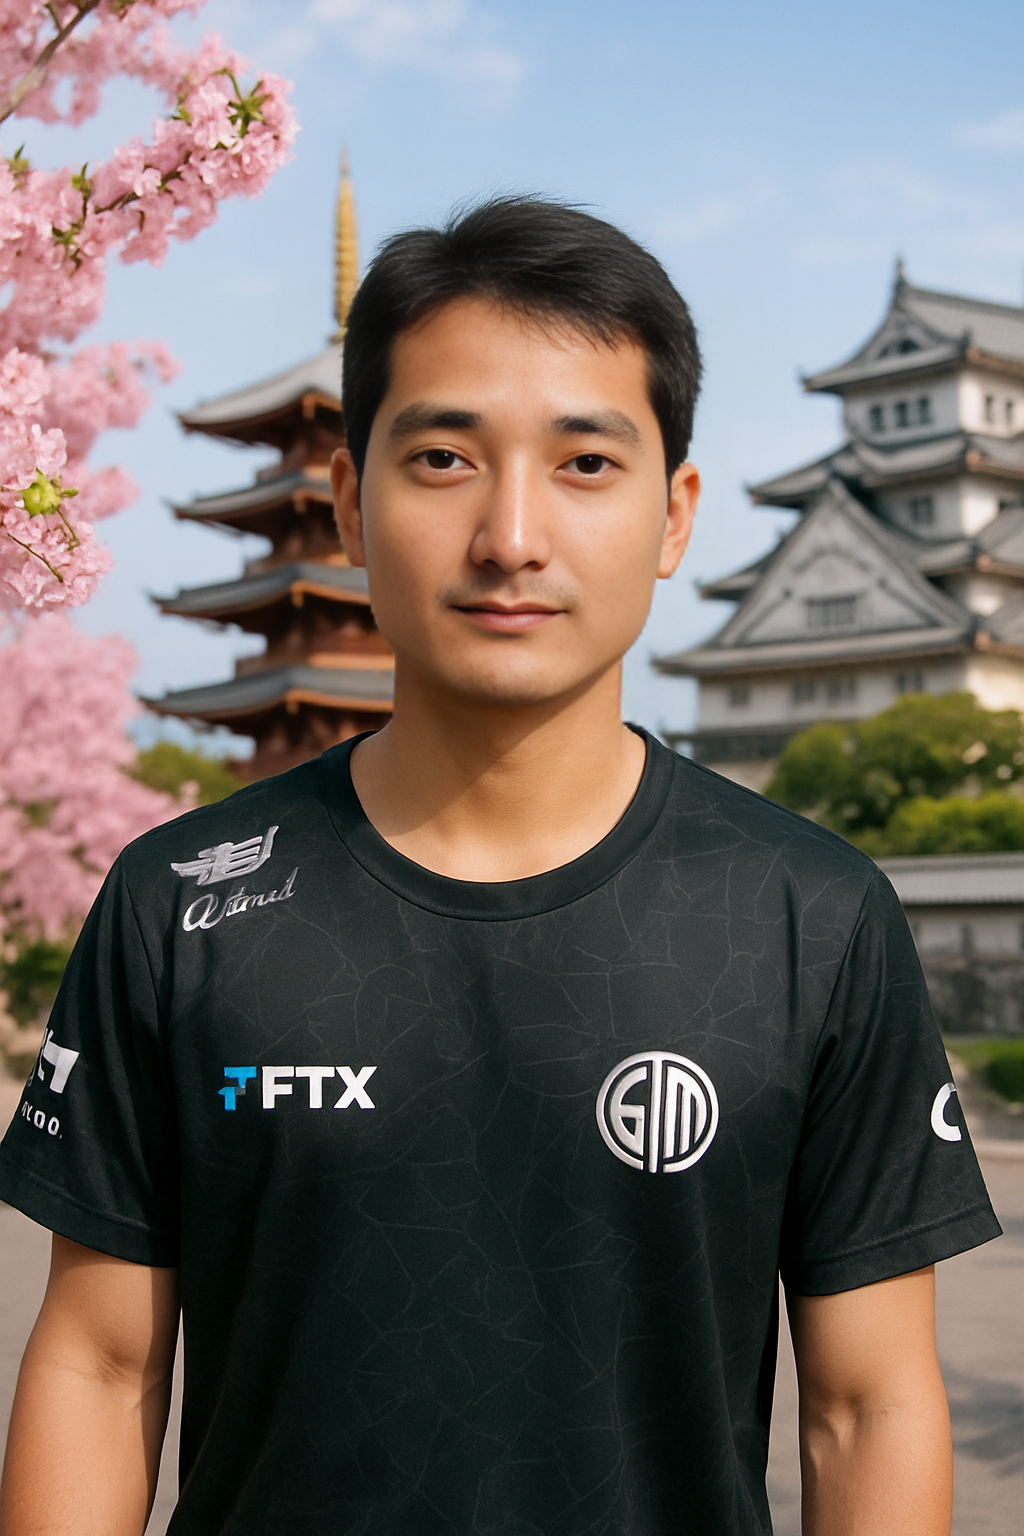
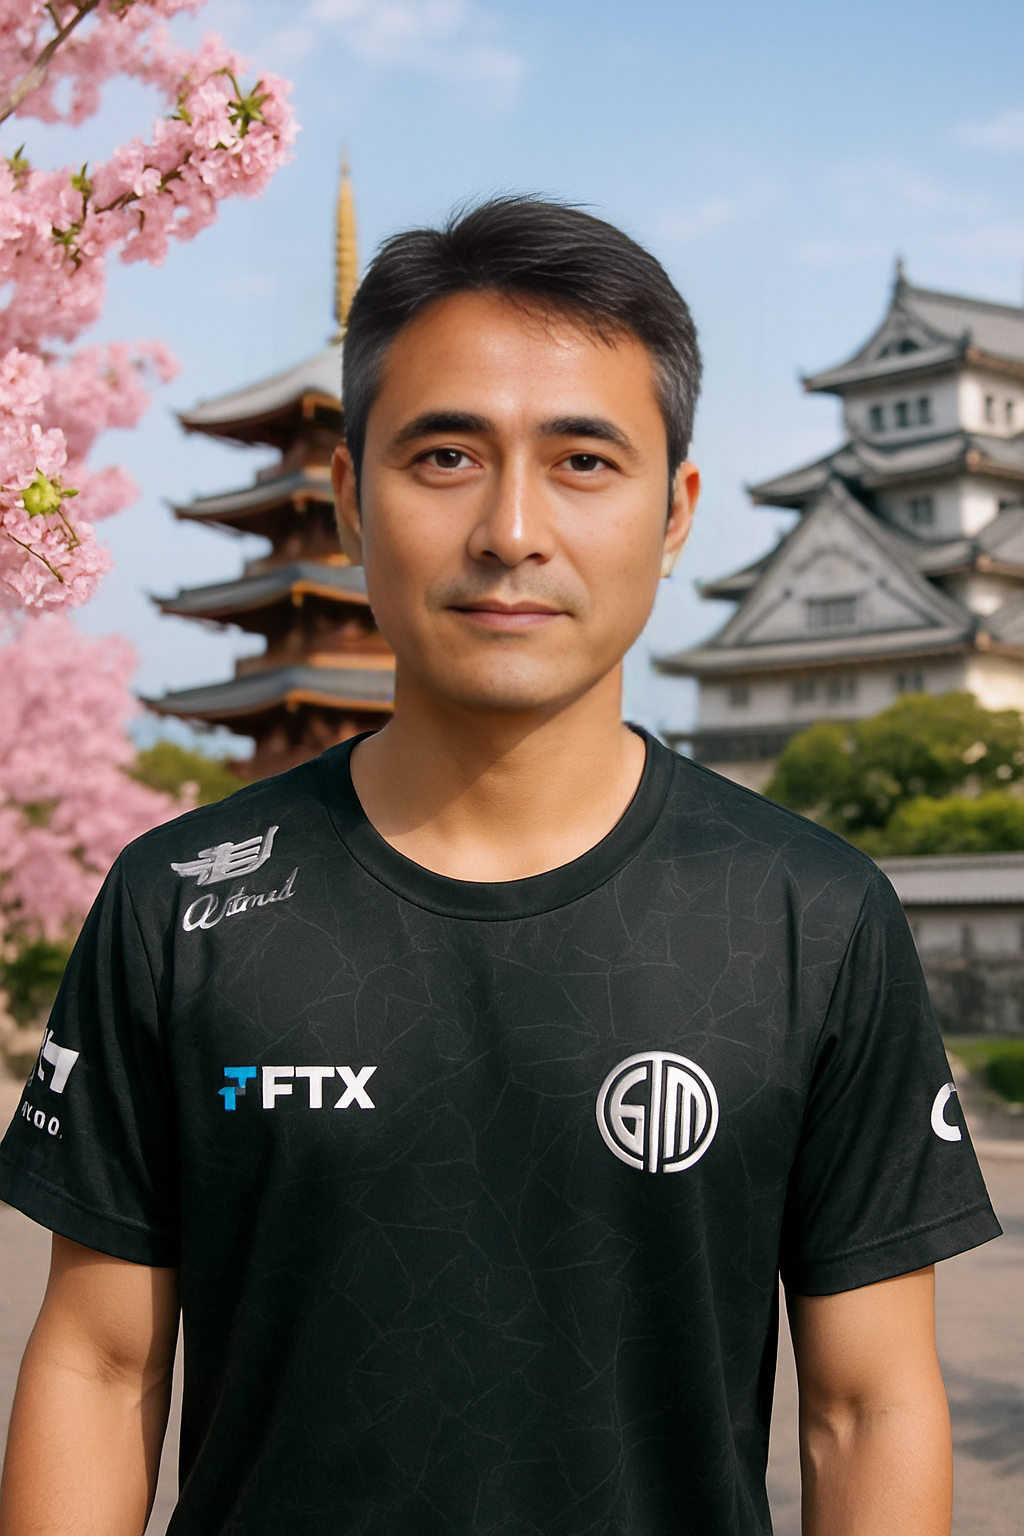
update team

Changed region(s): [[0.3125, 0.1875, 0.6875, 0.4688], [0.5625, 0.1875, 0.5938, 0.2188], [0.3438, 0.3438, 0.375, 0.375]]

diff --git a/src/components/TeamSection.tsx b/src/components/TeamSection.tsx
@@ -3,7 +3,6 @@ import Badge from "./ui/badge";
 import { FaLinkedin } from "react-icons/fa6";
 import mykhailo from "../assets/member/Mykhailo.png";
 import vladyslav from "../assets/member/Vladyslav.png";
-import zhong from "../assets/member/Zhong.jpg";
 import nikita from "../assets/member/Nikita.png";
 import andrew from "../assets/member/Andrew.png";
 import celeste from "../assets/member/Celeste.png";
@@ -34,18 +33,18 @@ const TeamSection = () => {
     },
     {
       name: "Celeste Paras",
-      role: "Chief Marketing Officer",
+      role: "COO & CMO",
       image: celeste,
       linkedin: "https://www.linkedin.com/in/celesteparas/",
     },
     {
       name: "Takao",
-      role: "Technical Lead",
+      role: "Chief Technology Officer",
       image: takao,
       linkedin:"https://www.linkedin.com/in/takao-kato-a23456306/",
     },
     {
-      name: "Kian (Rose)",
+      name: "Caleb Lin",
       role: "Product Manager",
       image: rose,
       linkedin:"https://www.linkedin.com/in/kian-lip-yap-253b3b372"
